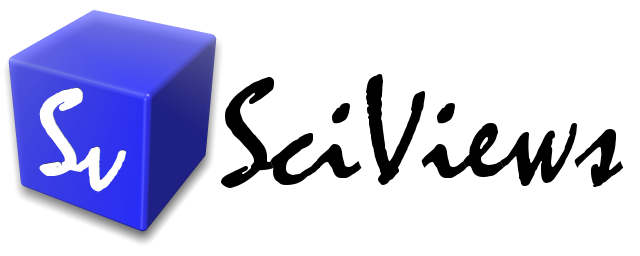
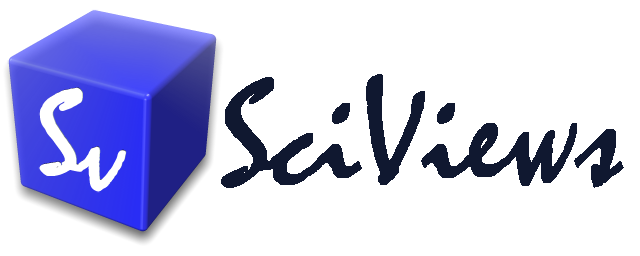
More theme styling with fading out menus

Changed region(s): [[0.3438, 0.2812, 1.0, 0.75]]

diff --git a/_sass/_navigation.scss b/_sass/_navigation.scss
@@ -7,7 +7,7 @@
   margin: 0;
   padding: 0;
   width: 100%;
-  height: 5px;
+  height: 0; /*5px;*/
   background-color: $menu-bg-color;
 }
 
@@ -32,11 +32,20 @@
     margin: 0 0 50px;
     padding: 4px 20px;
     background-color: $menu-bg-color;
+    color: $menu-color;
     @include media($medium) {
       position: fixed;
       width: 94%;
       left: 3%;
       @include rounded(0 0 10px 10px);
+      background-color: lighten($menu-bg-color, 85);
+      color: darken($menu-color, 20);
+      -o-transition: all 0.3s linear;
+      -moz-transition: all 0.3s linear;
+      -khtml-transition: all 0.3s linear;
+      -webkit-transition: all 0.3s linear;
+      -ms-transition: all 0.3s linear;
+      transition: all 0.3s linear;
     }
     @include clearfix;
     &.with-toc {
@@ -47,6 +56,10 @@
         @include rounded(0 0 10px 0);
       }
     }
+    &:hover {
+      background-color: $menu-bg-color;
+      color: $menu-color;
+    }
   }
   li {
     display: block;
@@ -55,7 +68,7 @@
     text-align: center;
     @include font-size(13,no);
     text-transform: uppercase;
-    color: $menu-color;
+    color: inherit;
     @include media($medium) {
       @include font-size(14,no);
     }
@@ -73,11 +86,12 @@
     display: block;
     margin-bottom: 10px;
     padding: 12px 20px;
+    color: $menu-color;
     @include media($medium) {
       margin-bottom: 0;
       padding: 6px 10px;
+      color: inherit;
     }
-    color: $menu-color;
     @include rounded(4px);
     &:hover {
       background-color: lighten($menu-bg-color, 10);
@@ -88,7 +102,9 @@
     }
   }
   a.disabled {
+    display: none;
     @include media($large) {
+      display: block;
       min-width: 125px;
     }
   }
@@ -111,21 +127,29 @@
       padding-left: 10px;
       padding-right: 10px;
       padding-bottom: 10px;
+      @include rounded(0 0 4px 4px);
+      box-shadow: 2px 2px 5px grey;
     }
   }
   ul ul.toc {
     @include media($large) {
       @include rounded(0);
+      box-shadow: none;
       display: block;
       float: left;
       position: fixed;
       overflow-y: scroll;
+      background-color: inherit;
       left: 0;
       top: 0;
       width: $left-pane;
       height: 100%;
       margin-top: 40px;
       z-index: -1;
+    }
+    &:hover {
+      background-color: $menu-bg-color;
+      color: $menu-color;
     }
   }
   ul ul li {
@@ -144,7 +168,7 @@
     }
   }
   ul ul span {
-    color: lighten($menu-bg-color, 40);
+    color: lighten($menu-bg-color, 70);
   }
   ul li:hover > ul {
     @include media($medium) {

diff --git a/_sass/_variables.scss b/_sass/_variables.scss
@@ -34,9 +34,9 @@ $border-color            : #ddd;
 $white                   : #fff;
 $black                   : #000;
 $accent-color            : $black;
-$link-color              : #222;
+$link-color              : #101830; /*#222;*/
 $menu-color              : $white;
-$menu-bg-color           : $black;
+$menu-bg-color           : #101830;
 
 $table-border-color      : $border-color;
 $table-border            : 1px solid $table-border-color;

diff --git a/_includes/navigation.html b/_includes/navigation.html
@@ -1,7 +1,7 @@
 <div class="navigation-top"></div>
 <div class="navigation-wrapper">
   <nav role="navigation" id="site-nav"> <!--</nav> class="animated drop">-->
-    <ul{% if pagetoc %} class="with-toc"{% endif %}>
+    <ul class="animated fadeIn{% if pagetoc %} with-toc{% endif %}">
     <!-- compute the TOC in the current category -->
     {% if pagetoc %}
       {% assign categories_posts = site.categories[pagetoc] %}

diff --git a/_posts/recipes/tcltk/0003-01-01-TclTk-file-open-save-dialogs.md b/_posts/recipes/tcltk/0003-01-01-TclTk-file-open-save-dialogs.md
@@ -16,7 +16,7 @@ comments: true
 share: true
 ---
 
-## The Open file dialog
+### The Open file dialog
 
 
 {% highlight r %}
@@ -36,7 +36,7 @@ The code above produces the following window:
 ![Messagebox]({{ site.images }}/recipes-tcltk/opensavebox2.png)
 
 
-## The Save file dialog
+### The Save file dialog
 
 
 {% highlight r %}
@@ -57,7 +57,7 @@ Now we will assume that the user pressed `Cancel`:
 ![Messagebox]({{ site.images }}/recipes-tcltk/opensavebox4.png)
 
 
-## Opening CSV files with the open file dialog
+### Opening CSV files with the open file dialog
 
 Here is how you can specify to the **OpenFile** dialog the type of files to look for:
 
@@ -86,7 +86,7 @@ Pressing the button gives the following **OpenFile** dialog, which knows which f
 ![Open a csv file box]({{ site.images }}/recipes-tcltk/opensavebox6.png)
 
 
-## Saving (or opening) files with more than one possible extension
+### Saving (or opening) files with more than one possible extension
 
 Multiple possibilities for file extensions (e.g., `.jpg` and `.jpeg`) can be separated by a space as follows:
 

diff --git a/_posts/recipes/tcltk/0004-01-01-TclTk-menus.md b/_posts/recipes/tcltk/0004-01-01-TclTk-menus.md
@@ -16,7 +16,7 @@ comments: true
 share: true
 ---
 
-## A Simple file menu
+### A Simple file menu
 
 The example below illustrates how to add a simple menu to a Tk toplevel window.
 
@@ -37,7 +37,7 @@ Running the code above gives the following window:
 ![Simple menu]({{ site.images }}/recipes-tcltk/menus.png)
 
 
-## Cascading menus within other menus
+### Cascading menus within other menus
 
 The example below illustrates how to cascade menu within another menu.
 
@@ -67,7 +67,7 @@ Running the code above gives the following window:
 ![Cascaded menu]({{ site.images }}/recipes-tcltk/menus2.png)
 
 
-## Adding a pop-up menu to a text window
+### Adding a pop-up menu to a text window
 
 The example below demonstrates how to add a simple pop-up menu to a text window. The hard part is determining the mouse coordinates in order to ensure that the menu appears where the mouse is right-clicked. Note that the keyboard shortcuts for copying and pasting (`<Ctrl-C>` and `<Ctrl-V>`) are mapped automatically for a Tk text widget.
 

diff --git a/_posts/recipes/tcltk/0001-01-01-TclTk-simple-toplevel-window.md b/_posts/recipes/tcltk/0001-01-01-TclTk-simple-toplevel-window.md
@@ -55,7 +55,7 @@ Our Tk window and the way we manage it is indeed far from optimal. It can be ame
 
 [^3]: Rerun the previous code to recreate the window and the button. Do not close that window, but rerun `win1 <- tktoplevel()`. This will create a new window, as `win1`. Now, when you click the `OK` button on the _first_ window, it is the _second_ window that is destroyed!
 
-## A better approach
+### A better approach
 
 Here is an improved version that implements all four points raised here above:
 
@@ -83,7 +83,7 @@ The button has now much more space around it. On Windows, it looks native, but o
 
 Our code is now becoming quite complicated. However, the **tcltk2** package would be helpful here.
 
-## The tcltk2 version
+### The tcltk2 version
 
 The **tcltk2** R package[^4] provides more advanced Tk widgets, additional R-Tcl commands, more modern themes for Linux and Mac OS X and it simplifies the creation of GUI items. Here is how you could get the same window using **tcltk2**:
 

diff --git a/_posts/recipes/tcltk/0013-01-01-TclTk-text-windows.md b/_posts/recipes/tcltk/0013-01-01-TclTk-text-windows.md
@@ -16,7 +16,7 @@ comments: true
 share: true
 ---
 
-## An editable text window
+### An editable text window
 
 Here is a text area that completelly fills a Tk window.
 
@@ -57,7 +57,7 @@ You can freely edit, cut, copy and paste in the text area.
 ![text area]({{ site.images }}/recipes-tcltk/text.png)
 
 
-## A non-editable text window
+### A non-editable text window
 
 
 {% highlight r %}
@@ -76,7 +76,7 @@ Here is what you get. Try editing the text.
 ![text read-only]({{ site.images }}/recipes-tcltk/text2.png)
 
 
-## A text window with a vertical scrollbar
+### A text window with a vertical scrollbar
 
 
 {% highlight r %}
@@ -107,7 +107,7 @@ Scrolling down reveals the remaining contents of the text widget:
 ![text scrolled]({{ site.images }}/recipes-tcltk/text4.png)
 
 
-## A text window with horizontal and vertical scrollbars (and no word wrap)
+### A text window with horizontal and vertical scrollbars (and no word wrap)
 
 
 {% highlight r %}

diff --git a/_posts/recipes/tcltk/0012-01-01-TclTk-listboxes.md b/_posts/recipes/tcltk/0012-01-01-TclTk-listboxes.md
@@ -18,7 +18,7 @@ share: true
 
 The following examples illustrate how to use a list box in a Tk window. The first example does not have a scrollbar, so it is simpler.
 
-## List box with tk2listbox()
+### List box with tk2listbox()
 
 
 {% highlight r %}
@@ -58,7 +58,7 @@ The user can then select their favorite fruit with the mouse:
 The `tk2listbox()` function automatically adds a scrollbar. With the **tcltk** version (`tklistbox()`), you have to add it manually yourself and it requires much more code for the same result. The `tk2listbox()` function also eases the initial filling of the list and the preselection of items, as it will be done in the second example here under.
 
 
-## Prefilling of a list and deletion of items from a list
+### Prefilling of a list and deletion of items from a list
 
 Here is a multiple selection list that is prefilled:
 

diff --git a/_posts/blog/2015-12-21-The-SciViews-Box.md b/_posts/blog/2015-12-21-The-SciViews-Box.md
@@ -4,7 +4,7 @@ title:  "The SciViews Box for reproductible science"
 excerpt: "The SciViews Box is a virtual machine preinstalled with a version of R and a series of CRAN packages from a fixed date (plus R Studio server and Jupyter)."
 modified: 2015-12-21
 categories: blog
-tags: [reproductibe research, virtual machine, R, R Studio, Jupyter]
+tags: [reproductible research, virtual machine, R, R Studio, Jupyter]
 image:
   feature: banner-web.jpg
   credit: Julien Eichinger (fotolia)
